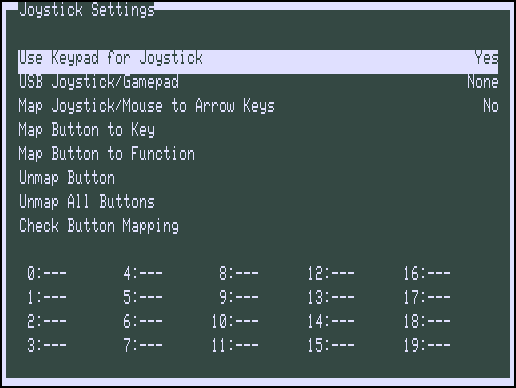
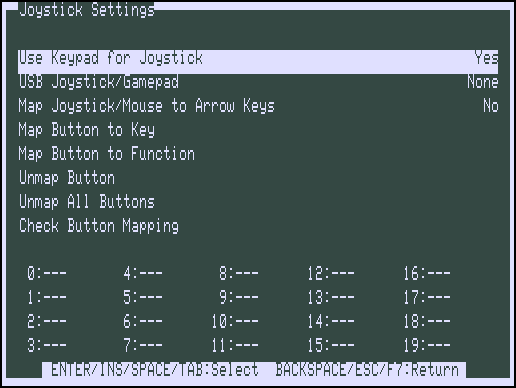
Update HTML documentation and images

Changed region(s): [[0.062, 0.9278, 0.9302, 0.9897]]

diff --git a/html/Features.html b/html/Features.html
@@ -57,6 +57,16 @@ or Model 4P mode. Some memory expansions like Alpha Technology's "SuperMem"
 are also supported. Floppy disks and hard disks are emulated using files to
 store the data; under Linux only, real floppy drives can be used.</p>
 
+<p>There is support for Model I and Model III clones: the function keys F1 -
+F4 are working for Dick Smith's "System 80 MK II" and the TCS "Genie II".
+Later TCS models, like "SpeedMaster" ("Genie IIs") and the "Genie IIIs", are
+also supported: these were just (highly) extended TRS-80 Model I clones and
+are detected by the emulator based on the ROM data. This also applies to the
+EG 3200 Genie III (EACA). Only for the TCS "SpeedMaster" (or "Genie IIs") the
+option <code>-speedup tcs</code> is required. The 480*192 HRG resolution for
+these machines - and the LNW80 - is supported. The extended 16 kB ROM of the
+brazilian Model III clones Prologica CP-300 and CP-500 also works.</p>
+
 <p>A printer is emulated by sending its output to a text file. A serial port
 is emulated using a host serial port. Cassette I/O is emulated using files to
 store the cassette data. Game sound and music output are also supported.
@@ -204,7 +214,7 @@ type <code>help</code> for more information.</p>
   </tr>
   <tr>
     <td><b>Control</b></td>
-    <td>TRS-80 Control key</td>
+    <td>TRS-80 Control key / TCS Genie IIs and SpeedMaster P1 key</td>
   </tr>
   <tr>
     <td><b>Page Up</b></td>
@@ -409,8 +419,9 @@ directory as the executable named <code>sdltrs.t8c</code>.</p>
 
 <p>SDLTRS provides a Text based menuing system that allows you to most aspect
 of emulator operation (more info on the <a href="TextGUI.html">Text GUI</a>
-page). The Text GUI is entered by pressing <b>F7</b> or <b>Alt-M</b>, and
-exited by using the <b>BackSpace</b> or <b>ESC</b> key.</p>
+page). The Text GUI is entered by pressing the <b>F7</b> key, <b>Alt-M</b> or
+<b>Alt-Comma</b> and exited by using the <b>F7</b> key again, <b>BackSpace</b>
+or <b>ESC</b>.</p>
 
 <p>A picture of the top level menu of the GUI is below:</p>
 
@@ -1088,12 +1099,12 @@ is not being used for Mouse emulation in the emulator.</p>
 
 <h3>Pasting Text:</h3>
 
-<p>To paste text from the host to the TRS-80, simple use the <b>Alt-V</b> or
-<b>Alt-Insert</b> shortcut. The pasted text is entered into the emulator as
-keystrokes. This should allow paste to work with any program that accepts
-keystroke input. As the keys must be entered at a normal typing pace, pasting
-a large buffer may take some time. Should you wish to interrupt a Paste in
-process, simply hit any key and the Paste will be terminated.</p>
+<p>To paste text from the host to the TRS-80, use the <b>Alt-V</b> shortcut.
+The pasted text is entered into the emulator as keystrokes. This should allow
+paste to work with any program that accepts keystroke input. As the keys must
+be entered at a normal typing pace, pasting a large buffer may take some time.
+Should you wish to interrupt a Paste in process, simply hit any key and the
+Paste will be terminated.</p>
 
 <h3>Copying Text:</h3>
 

diff --git a/html/TextGUI.html b/html/TextGUI.html
@@ -45,10 +45,10 @@ keys moves to the first or last menu item. Typing the first letter of a menu
 item marks it for selection. Pressing a number key from <b>0</b> to <b>9</b>
 jumps to the line in the menu. A menu item may be selected by pressing the
 <b>Enter</b>, <b>Insert</b>, <b>Space</b> or <b>Tab</b> key when the item is
-highlighted. Pressing <b>BackSpace</b> or <b>ESC</b> moves up a menu level
-(or exits the GUI if you are at the top level). Besides entering the GUI using
-<b>F7</b>, <b>Alt-Comma</b> or <b>Alt-M</b>, submenus may be entered by using
-the key shortcuts shown after the menu items.</p>
+highlighted. Pressing <b>F7</b>, <b>BackSpace</b> or <b>ESC</b> moves up a
+menu level (or exits the GUI if you are at the top level). Besides entering
+the GUI using <b>F7</b>, <b>Alt-M</b> or <b>Alt-Comma</b>, submenus may be
+entered by using the key shortcuts shown after the menu items.</p>
 
 <h2><a name="Floppy_Disk_Management"></a><u>Floppy Disk Management</u></h2>
 
@@ -253,7 +253,7 @@ but use this with CAUTION: overclocking the Z80 will result in all forms of
 for memory banking (by Martin Doppelbauer) on I/O-port <code>0xFE</code>.
 <b>LNW80</b> sets the CPU clock to 4 MHz and enables banking for the 480*192
 HRG in the lower 16 KB. Use <b>TCS SpeedMaster</b> for this enhanced Model I
-clone, running at 5.35 MHz, with 480*192 HRG and memory banking support.</p>
+clone running at 5.35 MHz, with 480*192 HRG and memory banking support.</p>
 
 <h3>Exatron Stringy Floppy:</h3>
 

diff --git a/html/Options.html b/html/Options.html
@@ -558,8 +558,9 @@ will be executed upon startup of the emulator.</p>
         F8 and FA data address marks is strictly observed on both writing and
         reading. This option is probably not useful unless you need to deal
         with Model I disks that use the distinction as part of a copy-
-        protection scheme. See also "Common File Formats for Emulated TRS-80
-        Floppy Disks", available at http://www.tim-mann.org/trs80/dskspec.html.
+        protection scheme. See also
+        <a href="https://www.tim-mann.org/trs80/dskspec.html">
+        Common File Formats for Emulated TRS-80 Floppy Disks</a>
     </td>
   </tr>
   <tr>

diff --git a/html/index.html b/html/index.html
@@ -67,6 +67,11 @@ is also a good resource.</p>
       personal use using the instructions and tools in this
       <a href="http://www.tim-mann.org/trs80/doc/rom4p.zip">article</a>,
       originally published in the Misosys Quarterly 1.2.</li>
+  <br>
+  <li>Lots of information about the EACA Video Genie, the EG 3200 Genie III and
+      the extended Model I clones TCS SpeedMaster/Genie IIs and Genie IIIs, can
+      be found on <a href="https://oldcomputers-ddns.org">oldcomputers-ddns.org</a>
+      in the EACA directory.</li>
 </ul>
 
 </body>

diff --git a/html/Credits.html b/html/Credits.html
@@ -83,6 +83,9 @@ over from XTRS and the MAME project:</h3>
       in 2020 which provided valuable information for the implementation.</li>
   <br>
   <li>George Phillips provided documentation for the Anitek MegaMem card.</li>
+  <br>
+  <li>Fritz Chwolka helped to improve the TCS Genie IIIs emulation by running
+      some tests on a real machine.</li>
 </ul>
 
 </body>
